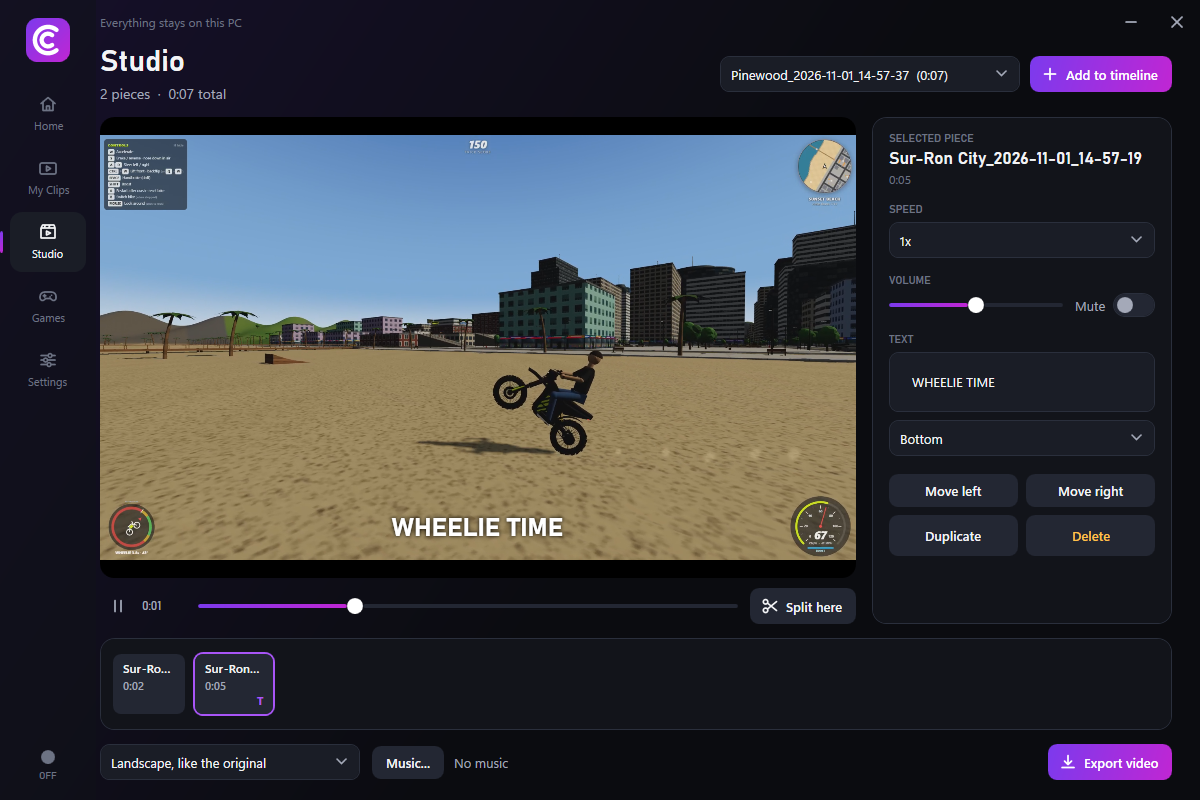
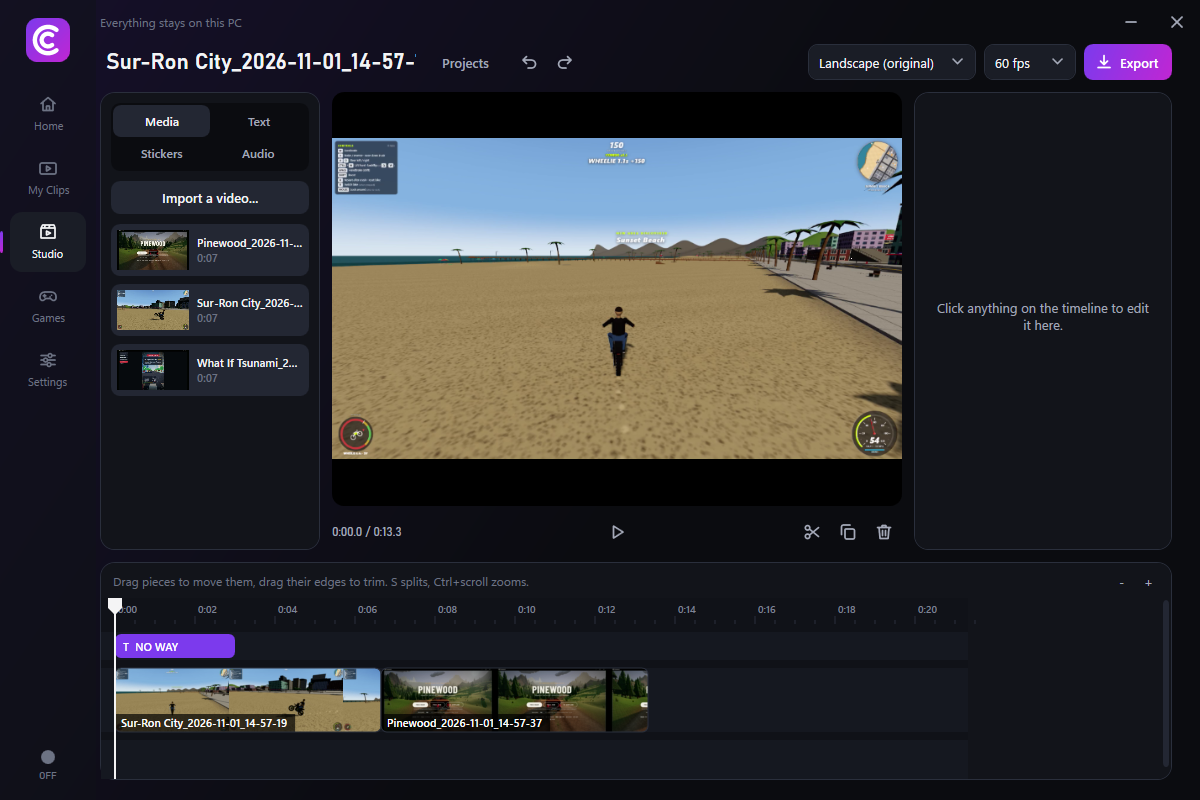
ClipClip 1.3.0: full Studio editor

diff --git a/docs/index.html b/docs/index.html
@@ -52,7 +52,7 @@
               <svg viewBox="0 0 20 20" aria-hidden="true"><path d="M10 3.5v9M6.5 9l3.5 3.5L13.500 9M4 15.500h12"/></svg>
               Download for Windows
             </a>
-            <p class="cta-meta">Version 1.2.0 &middot; 201 MB &middot; Free, no account</p>
+            <p class="cta-meta">Version 1.3.0 &middot; 201 MB &middot; Free, no account</p>
           </div>
         </div>
         <figure class="hero-shot">
@@ -109,13 +109,13 @@
           <li>Plain MP4 files in a folder you choose</li>
           <li>Export, copy or open in any player</li>
           <li>Trim clips, remove audio and star your favorites</li>
-          <li>Studio editor: split, speed, captions, music and vertical export</li>
+          <li>Studio: a full editor with a multi-track timeline, transitions, filters, text, stickers, music and voiceover</li>
           <li>Deleted clips go to the Recycle Bin</li>
         </ul>
       </div>
       <div class="shots">
         <img src="img/clips-crop.png" width="1200" height="345" alt="The My Clips library showing three clips from different games with thumbnails, durations and export buttons." loading="lazy">
-        <img src="img/studio.png" width="1200" height="800" alt="The ClipClip Studio editor with a dirt bike clip, a caption reading WHEELIE TIME, a two piece timeline and export options." loading="lazy">
+        <img src="img/studio.png" width="1200" height="800" alt="The ClipClip Studio editor with a preview, an inspector and a multi-track timeline showing video filmstrips and a text track." loading="lazy">
       </div>
     </section>
 
@@ -199,7 +199,7 @@
           <svg viewBox="0 0 20 20" aria-hidden="true"><path d="M10 3.5v9M6.5 9l3.5 3.5L13.500 9M4 15.500h12"/></svg>
           Download for Windows
         </a>
-        <p class="cta-meta">Version 1.2.0 &middot; 201 MB &middot; Prefer no installer? <a data-download="portable" href="https://github.com/devuaka/ClipClip/releases/latest/download/ClipClip-win-Portable.zip" download>Get the portable zip</a> (194 MB)</p>
+        <p class="cta-meta">Version 1.3.0 &middot; 201 MB &middot; Prefer no installer? <a data-download="portable" href="https://github.com/devuaka/ClipClip/releases/latest/download/ClipClip-win-Portable.zip" download>Get the portable zip</a> (194 MB)</p>
       </div>
     </section>
   </main>
